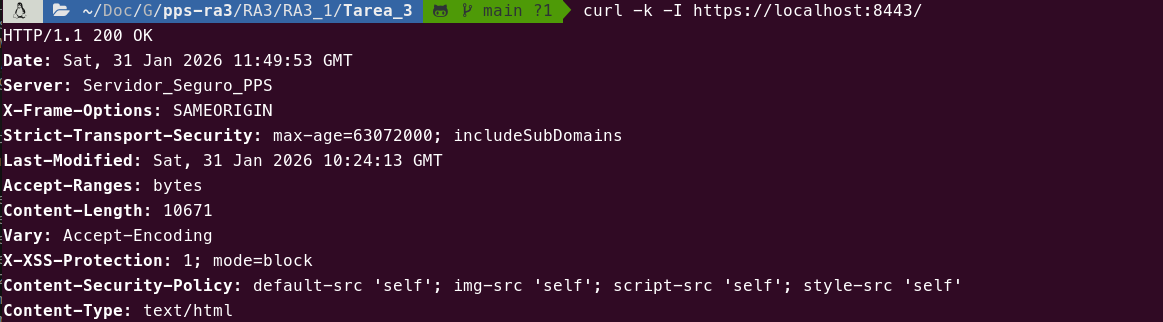
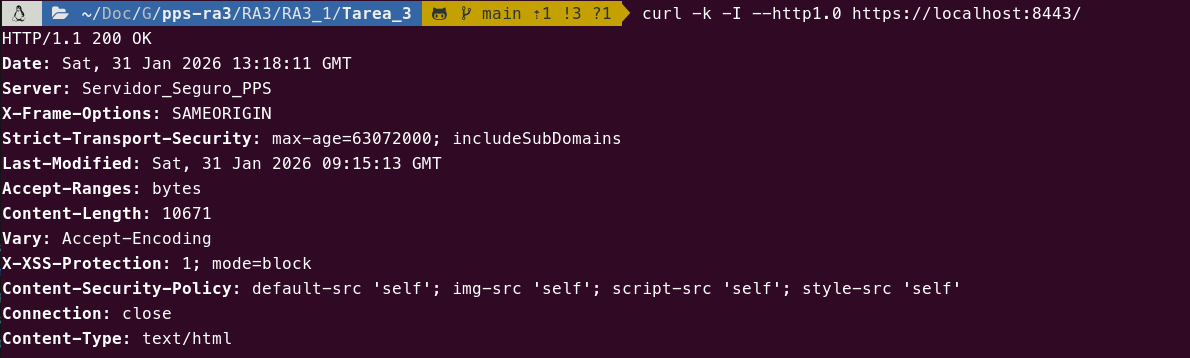
chore: finalizar tarea 3

Changed region(s): [[0.0, 0.1553, 0.5572, 0.6832], [0.0, 0.7143, 0.8358, 0.9938], [0.0, 0.0, 0.9286, 0.1242]]

diff --git a/RA3/RA3_1/Tarea_3/README.md b/RA3/RA3_1/Tarea_3/README.md
@@ -122,6 +122,10 @@ SecAuditLog /var/log/apache2/modsec_audit.log
 
 La recomendación de configurar la directiva `Listen` con una IP absoluta (ej. `Listen 10.10.10.1:80`) **no se ha implementado** directamente en el archivo de configuración de Apache. En un entorno Docker, la gestión de IPs de escucha se delega al runtime de Docker. "Quemamos" una IP específica en la imagen haría que el contenedor fuera menos portable. La restricción de acceso por IP debe realizarse al ejecutar el contenedor (ej. `docker run -p 127.0.0.1:8080:80 ...`) o mediante firewalls externos.
 
+### Justificación: Ejecutar todo como usuario `apache`
+
+Ejecutar todo el contenedor como el usuario `apache` no es trivial: Apache necesita privilegios de arranque (bind a puertos <1024, crear PID/lock, leer configs) que normalmente realiza el proceso maestro como root y luego los workers bajan a un usuario no privilegiado; forzar todo a `apache` obliga a cambiar propietarios/permiso en `/etc/apache2`, `/var/run` y logs o a otorgar capacidades al binario, lo que reduce seguridad y portabilidad. Por eso la práctica recomendada es iniciar como root para preparar el entorno y dejar que los procesos worker ejecuten el trabajo con el usuario no privilegiado.
+
 ### Tabla resumen
 
 | Tarea | Implementación |
@@ -296,15 +300,17 @@ Server: Servidor_Seguro_PPS
 ### 8. Verificar permisos de directorios
 - **Comando:**
 
-    ```bash
-    ```
+```bash
+docker exec tarea3 stat -c "%a" /etc/apache2
+docker exec tarea3 stat -c "%a" /var/log/apache2
+```
 
 **Resultado esperado:**
 
-    ```text
-    # En ambos casos:
-    750
-    ```
+```text
+En ambos casos:
+750
+```
 
 ### 9. Verificaciń de Apache ejecutándose con usuario no privilegiado:**
 
@@ -324,8 +330,32 @@ O cualquier otra línea donde Apache se ejecute bajo el usuario no privilegiado 
 
 ## Capturas
 
-> Resultados de las pruebas con curl
-![Pruebas curl](capturas/pruebas_curl.png)
+> Verificación de las nuevas cabeceras de seguridad.<br>
+![Prueba 1](capturas/prueba1.png)
+
+> Forzado de HTTP/1.1.<br>
+![Prueba 2](capturas/prueba2.png)
+
+> Bloqueo de método PUT.<br>
+![Prueba 3](capturas/prueba3.png)
+
+> Bloqueo de método DELETE.<br>
+![Prueba 4](capturas/prueba4.png)
+
+> Verificación de método GET.<br>
+![Prueba 5](capturas/prueba5.png)
+
+> Verificación de método POST.<br>
+![Prueba 6](capturas/prueba6.png)
+
+> Verificación de ofuscación de banner.<br>
+![Prueba 7](capturas/prueba7.png)
+
+> Permisos de directorios.<br>
+![Prueba 8](capturas/prueba8.png)
+
+> Procesos worker de apache ejecutándose como usuario www-data.<br>
+![Prueba 9](capturas/prueba9.png)
 
 ## Fuentes
 
